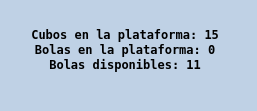
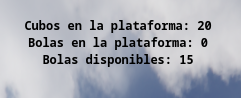
Modificado README.md para reflejar todo lo relacionado con los nuevos controles y nuevas texturas

diff --git a/README.md b/README.md
@@ -58,22 +58,30 @@ http://localhost:1234
 La estructura de los archivos del código fuente del proyecto, en el directorio ```src``` es la siguiente:
 
 - Directorio ```modules```: Incluye módulos que se encargan de realizar distintas partes de la aplicación:
+
+    - Directorio ```modules/classes```: Incluye las clases que implementan el control de los inputs de teclado y ratón y la cámara en primera persona.
+
+        - ```FirstPersonCamera.js```: Implementa la cámara en primera persona así como la rotación y traslación de la misma.
+
+        - ```InpurController.js```: Implementra el control de eventos de teclado y ratón.
     
     - ```game.js```: Se encarga de la gestión de la lógica de juego.
 
-    - ```gameObjects.js```: Se encarga de la creación de los objetos de la simulación (suelo, cubos y bolas).
+    - ```gameObjects.js```: Se encarga de la creación de los objetos de la simulación (plataforma para el jugador, plataforma para los cubos, cubos y bolas).
 
     - ```gui.js```: Se encarga de la creación de la interfaz de usuario.
 
     - ```input.js```: Se encarga de la creación y la lógica de los elementos de interacción de la simulación (raycaster e interacciones al hacer clic).
 
-    - ```simObjects.js```: Se encarga de la creación de los objetos de la simulación (escena, cámara, renderer, control órbital y reloj).
+    - ```simObjects.js```: Se encarga de la creación de los objetos de la simulación (escena, cámara, renderer, control órbital, control en primera persona y reloj).
 
     - ```world.js```: Se encarga de la creación del mundo físico con __Ammo.js__.
 
 - ```animacion.js```: Inicializa __Ammo.js__, inicializa la simulación y controla el bucle de animación.
 
 - ```index.html```: Fichero __HTML__ en el que se muestra la simulación.
+
+- ```ìndex.css```: Hoja de estilos que contiene algunas reglas que mejoran la visualización de la simulación.
 
 ## Controles de la simulación
 ![Controles de la simulación](assets/readme/controles.png)
@@ -84,32 +92,60 @@ La simulación incluye dos ``modos de funcionamiento``:
 
 ### Control de botón de colocación o disparo
 
-![Controles de disparo y colocación de cubos](assets/readme/control_disparo.png)
-
-La interfaz de usuario ofrece la opción de disparar o colocar cubos (según el modo seleccionado en el selector ``Colocar cubos``) con los dos botones del ratón (marcando el selector) o solamente con el botón derecho (no marcando el selector) a través del selector ``Disparo con botón izquierdo``.
-
-Esta opción se implementó debido a que el botón de disparo, si esta opción está activada, se activa al mover la cámara, que también se mueve pulsando el botón izquierdo del ratón.
+La interfaz de usuario ofrece la opción de disparar o colocar cubos (según el modo seleccionado en el selector ``Colocar cubos``).
 
 ### Modos de funcionamiento de la simulación
-#### Colocación de cubos o lanzamiento de bolas
+#### Colocación de cubos
 
-En este modo se permite la colocación de cubos si la opción ``Colocar cubos`` está seleccionada. Para colocar un cubo simplemente basta con pulsar con el ratón el cualquier punto de la plataforma.
+En este modo se permite la colocación de cubos si la opción ``Colocar cubos`` está seleccionada. Para colocar un cubo simplemente basta con pulsar con el botón derecho del ratón en cualquier punto de la plataforma.
+
+En este modo se puede mover la cámara pulsando el botón izquierdo y arrastrando el ratón.
 
 ![Colocación de cubos](assets/readme/cubos.png)
 
-También se permite el lanzamiento de bolas al desactivar la opción ``Colocar cubos``. Para lanzar una bola basta con pulsar con el ratón en cualquier parte de la pantalla.
+#### Disparo de bolas
 
-![Lanzamiento de bolas](assets/readme/bolas.png)
+Al desmarcar la opción ``Colocar cubos``, la cámara de la simulación cambiará a una cámara en primera persona situada en la plataforma situada alrededor de la plataforma central.
+
+![Cámara en primera persona](assets/readme/primera_persona.png)
+
+Para poder disparar, hay que pulsar con el botón izquierdo del ratón sobre la pantalla, como se indica en la parte superior.
+
+![Indicador de bloqueo de ratón](assets/readme/indicador_bloqueo.png)
+
+Una vez se pulse sobre la pantalla, el navegador bloquerá el ratón dentro de la pantalla para permitir moverlo sin problema. Para salir de este modo basta con pulsar la tecla __Escape__. Esto también lo indica el navegador.
+
+![Indicador de salida de bloqueo de ratón](assets/readme/salida_bloqueo.png)
+
+En el modo de disparo se utilizan los siguientes controles:
+
+- Se puede mover la cámara ```moviendo el ratón``` como en cualquier juego en primera persona.
+
+- Es posible desplazarse por la plataforma utilizando las teclas de movimiento ```W```, ```A```, ```S``` y ```D```.
+
+- Se puede aumentar la velocidad de movimiento pulsando la tecla ```Mayus```.
+
+- Se puede disparar una bola en la dirección en la que se está mirando pulsando el ```botón izquierdo del ratón```.
+
+![Disparo de bolas](assets/readme/bolas.png)
+
+### Contador de objetos
 
 En la parte superior de la pantalla se muestran al usuario el número de cubos y bolas que se encuentran sobre la plataforma.
 
 ![Contador de cubos y bolas en la plataforma](assets/readme/contador.png)
 
-#### Minijuego
+### Selectores de sensibilidad del ratón
+
+En la interfaz de usuario se encuentran unos selectores que permiten establecer la sensibilidad, tanto __vertical__ como __horizontal__ del ratón en la cámara en primera persona.
+
+![Selectores de sensibilidad del ratón](assets/readme/sensibilidad.png)
+
+## Minijuego
 
 La simulación incluye un pequeño minijuego consistente en colocar un determinado número de cubos para, posteriormente, sacarlos de la plataforma utilizando un determinado número de bolas.
 
-##### Inicio del minijuego
+### Inicio del minijuego
 
 ![Controles del juego](assets/readme/control_juego.png)
 
@@ -127,15 +163,15 @@ Actualmente el número de bolas se selecciona de la siguiente manera:
 
 Una vez se han establecido los parámetros del juego, se pulsa el botón ``Empezar juego`` para inicializar el juego.
 
-##### Fase inicial: Colocación de cubos
+### Fase inicial: Colocación de cubos
 
 Si en la plataforma hay menos cubos que los seleccionados por el jugador, entonces deberá colocar los cubos restantes para pasar a la siguiente fase.
 
 ![Contador del juego en la fase inicial](assets/readme/contador_fase_1.png)
 
-Además, se informa en la parte superior de la pantalla cuantos cubos quedan por colocar.
+Además, se informará en la parte superior de la pantalla cuantos cubos quedan por colocar.
 
-##### Segunda fase: Lanzamiento de bolas
+### Segunda fase: Lanzamiento de bolas
 
 En esta fase el jugador deberá disparar bolas para expulsar de la plataforma los cubos que colocó previamente.
 
@@ -145,7 +181,7 @@ El jugador tendrá un número de disparos limitados determinados por la dificult
 
 Cuando el jugador expulse todos los cubos, o se quede sin disparos, el juego pasará a la fase final.
 
-##### Fase final: muestra de resultados
+### Fase final: muestra de resultados
 
 En esta fase se indicará al jugador si ha ganado o ha perdido en función de si ha podido expulsar todos los cubos de la plataforma con los disparos que tenía.
 
@@ -153,6 +189,18 @@ En esta fase se indicará al jugador si ha ganado o ha perdido en función de si
 
 ![Contador del juego en la fase final si el jugador pierde](assets/readme/contador_fase_3_derrota.png)
 
-Al finalizar aparece un botón al que permite al usuario finalizar la partida y volver al estado inicial de la simulación, en el que puede empezar otra partida.
+Al finalizar, aparece un botón que permite al usuario finalizar la partida y volver al estado inicial de la simulación, en el que puede empezar otra partida.
 
 ![Botón de terminar juego](assets/readme/terminar.png)
+
+## Texturas utilizadas
+
+En esta simulación se utilizan las siguientes texturas:
+
+- La textura del SkyBox se puede encontrar [aquí](https://polyhaven.com/a/kloofendal_48d_partly_cloudy_puresky). Ha sido modificada para poder ser utilizada con [esta herramienta](https://github.com/matheowis/HDRI-to-CubeMap).
+
+- La textura de la plataforma del jugador se puede encontrar [aquí](https://polyhaven.com/a/metal_plate).
+
+- La textura de la plataforma para los cubos se puede encontrar [aquí](https://polyhaven.com/a/concrete_layers_02).
+
+- La textura de los cubos se puede encontrar [aquí](https://polyhaven.com/a/wood_planks).
